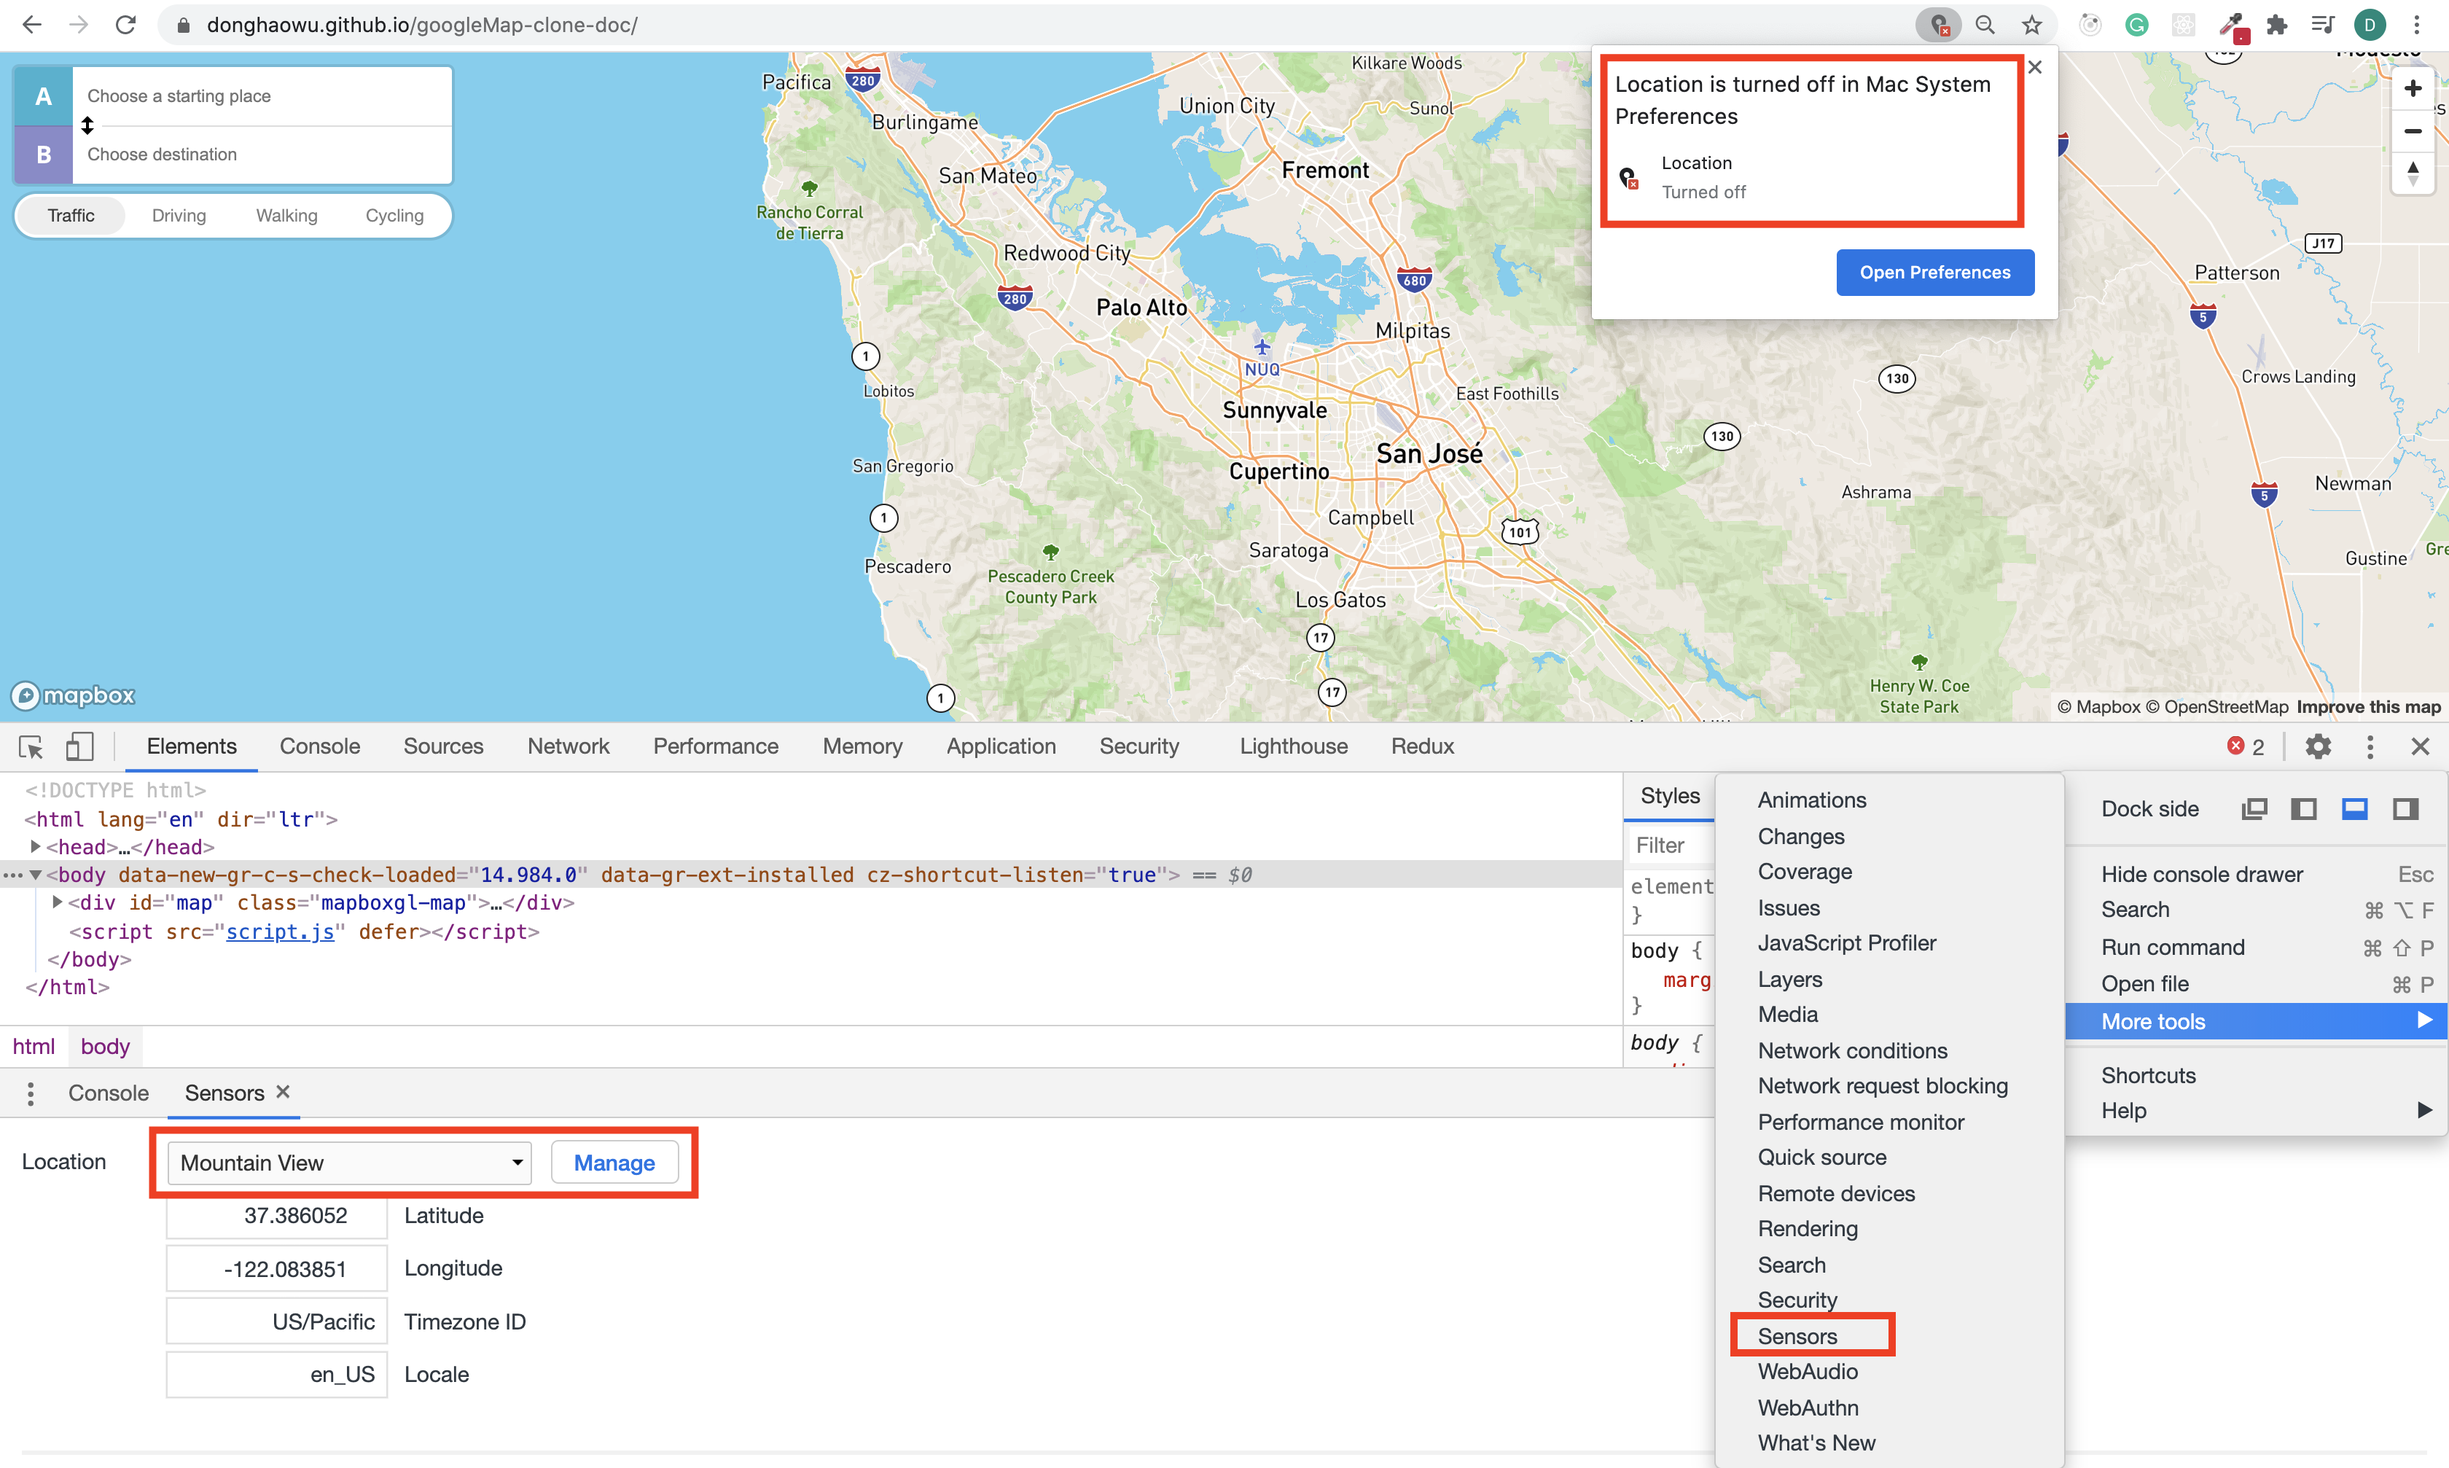
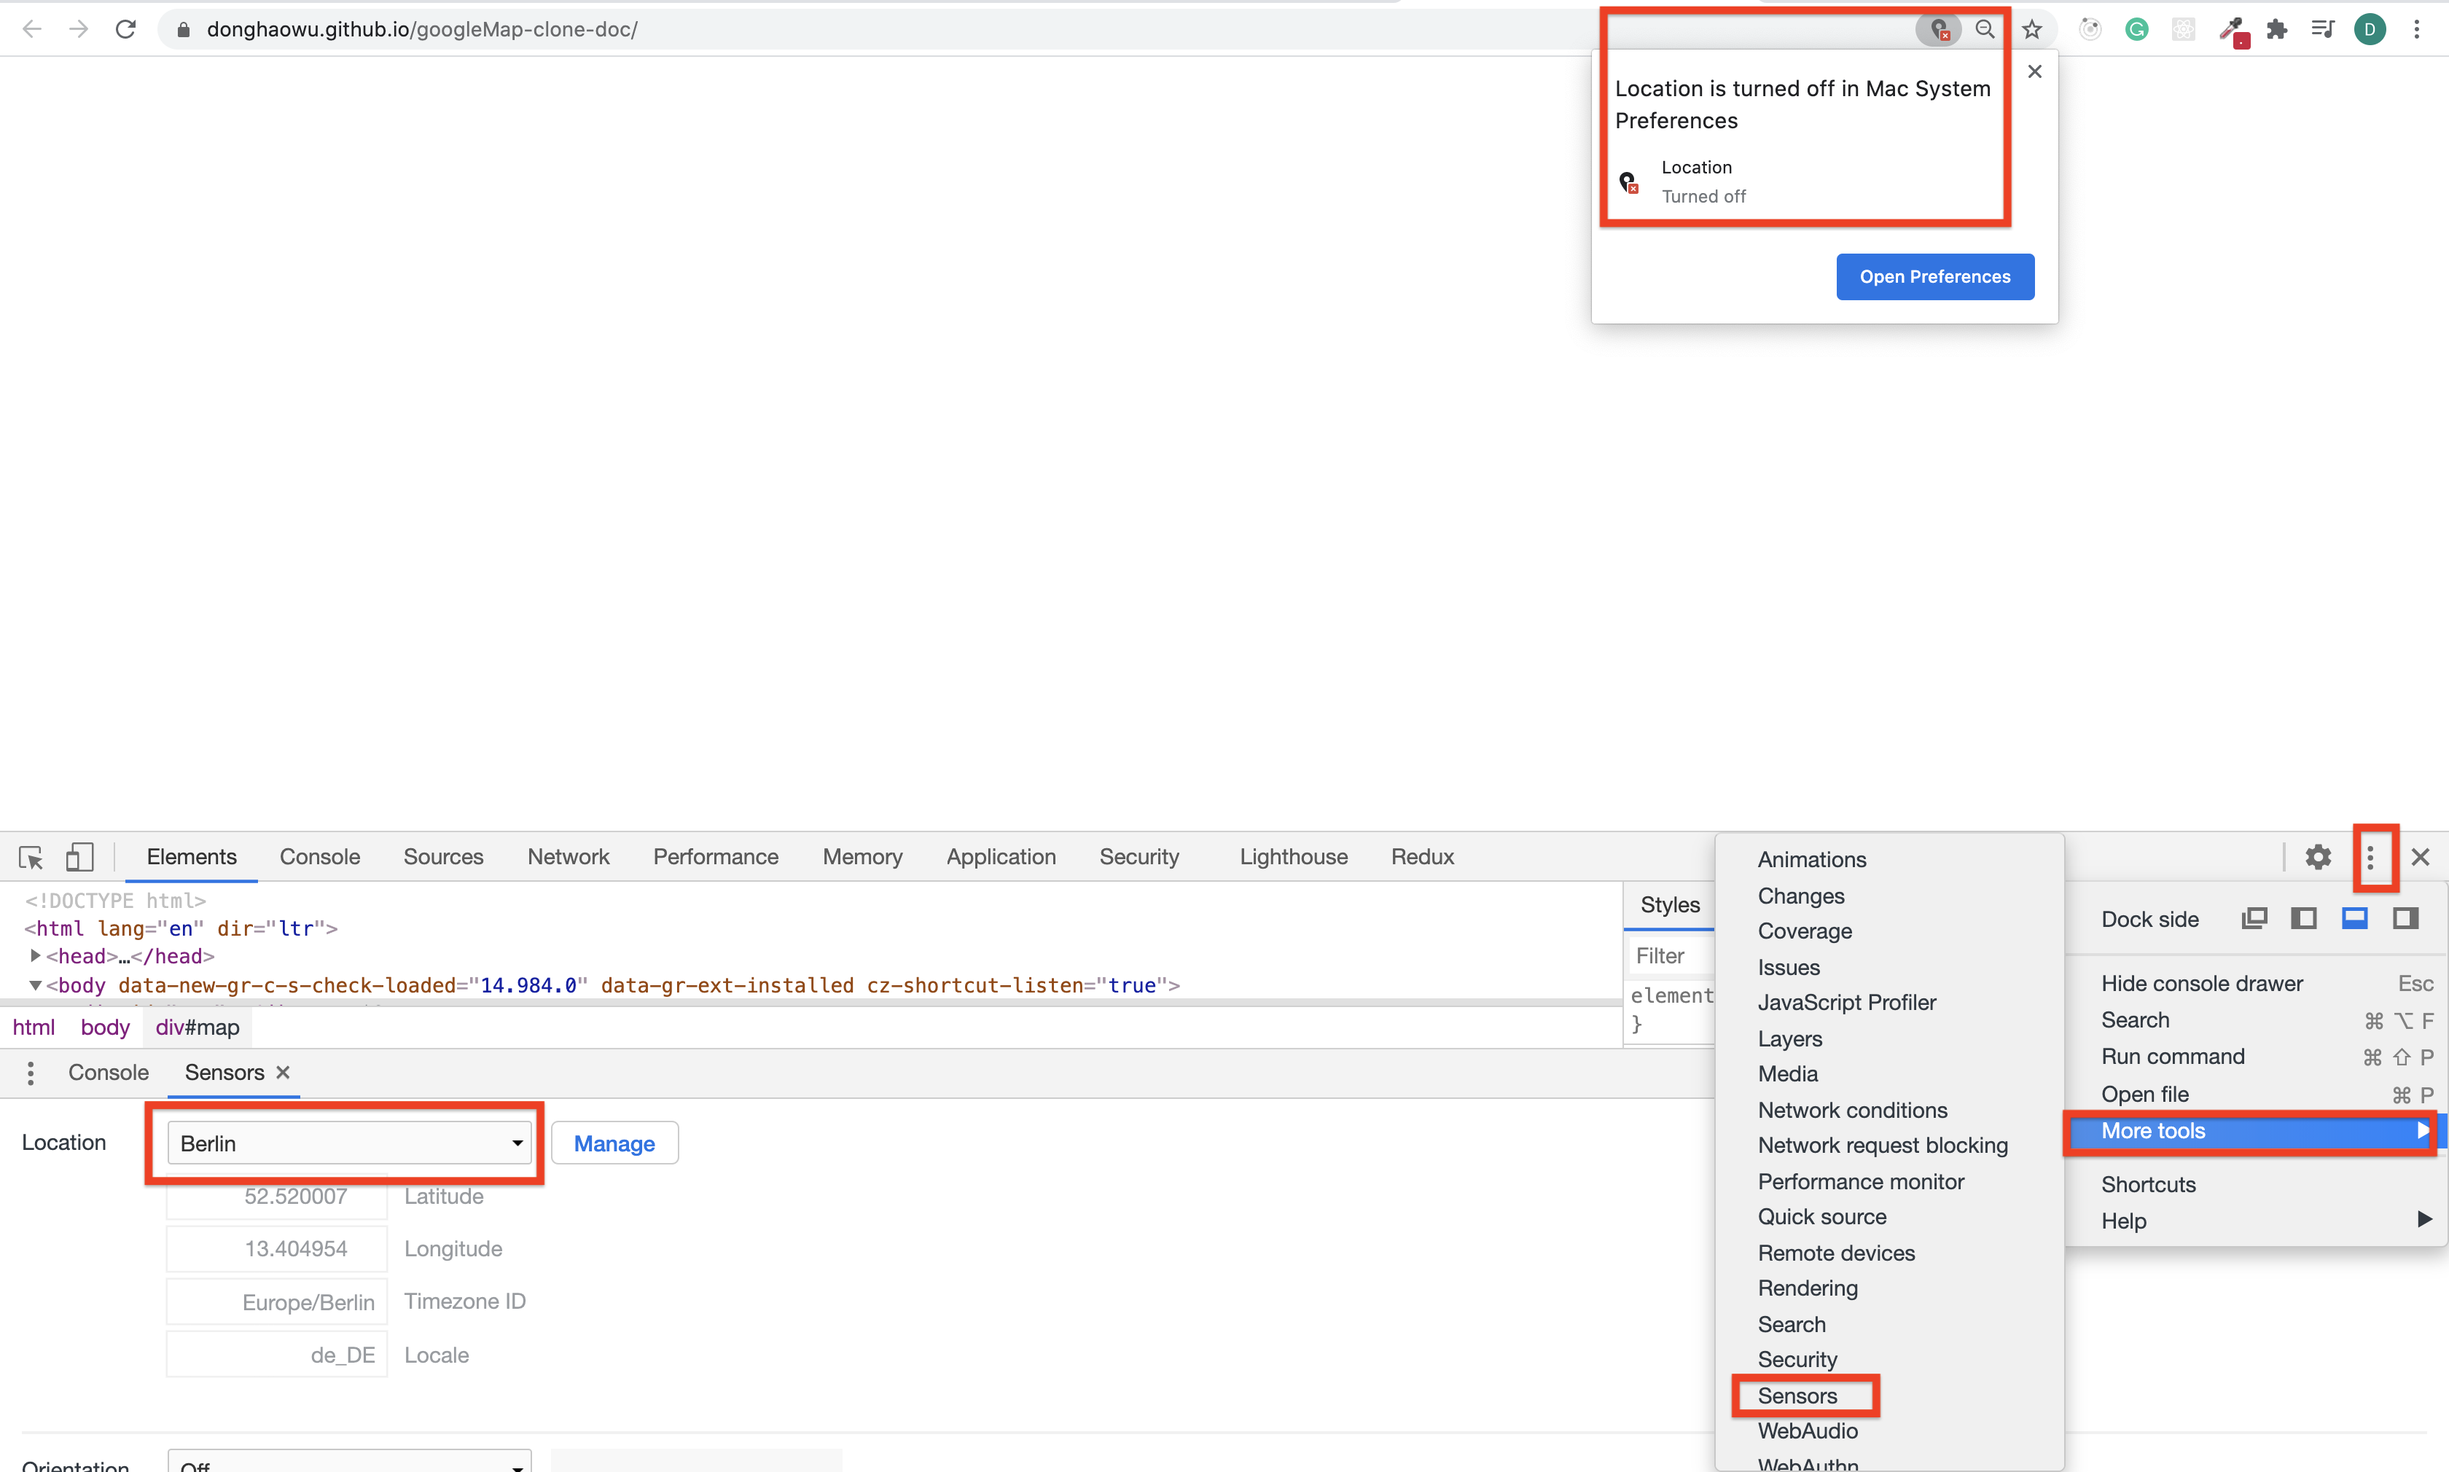
edited a picture.

diff --git a/README.md b/README.md
@@ -16,7 +16,7 @@
 
 - [Mapbox examples](https://docs.mapbox.com/mapbox-gl-js/example/):gem:
 
-- If you have turned off location in your device but want to test the app in a fake location, select a location to overwrite your current location then refresh the page:
+- If you have turned off location in your device and get a blank page like this, select a location to overwrite your current location then refresh the page:
 
   <p align="center">
   <img src="./assets/gm-c-01.png" width=90%>
